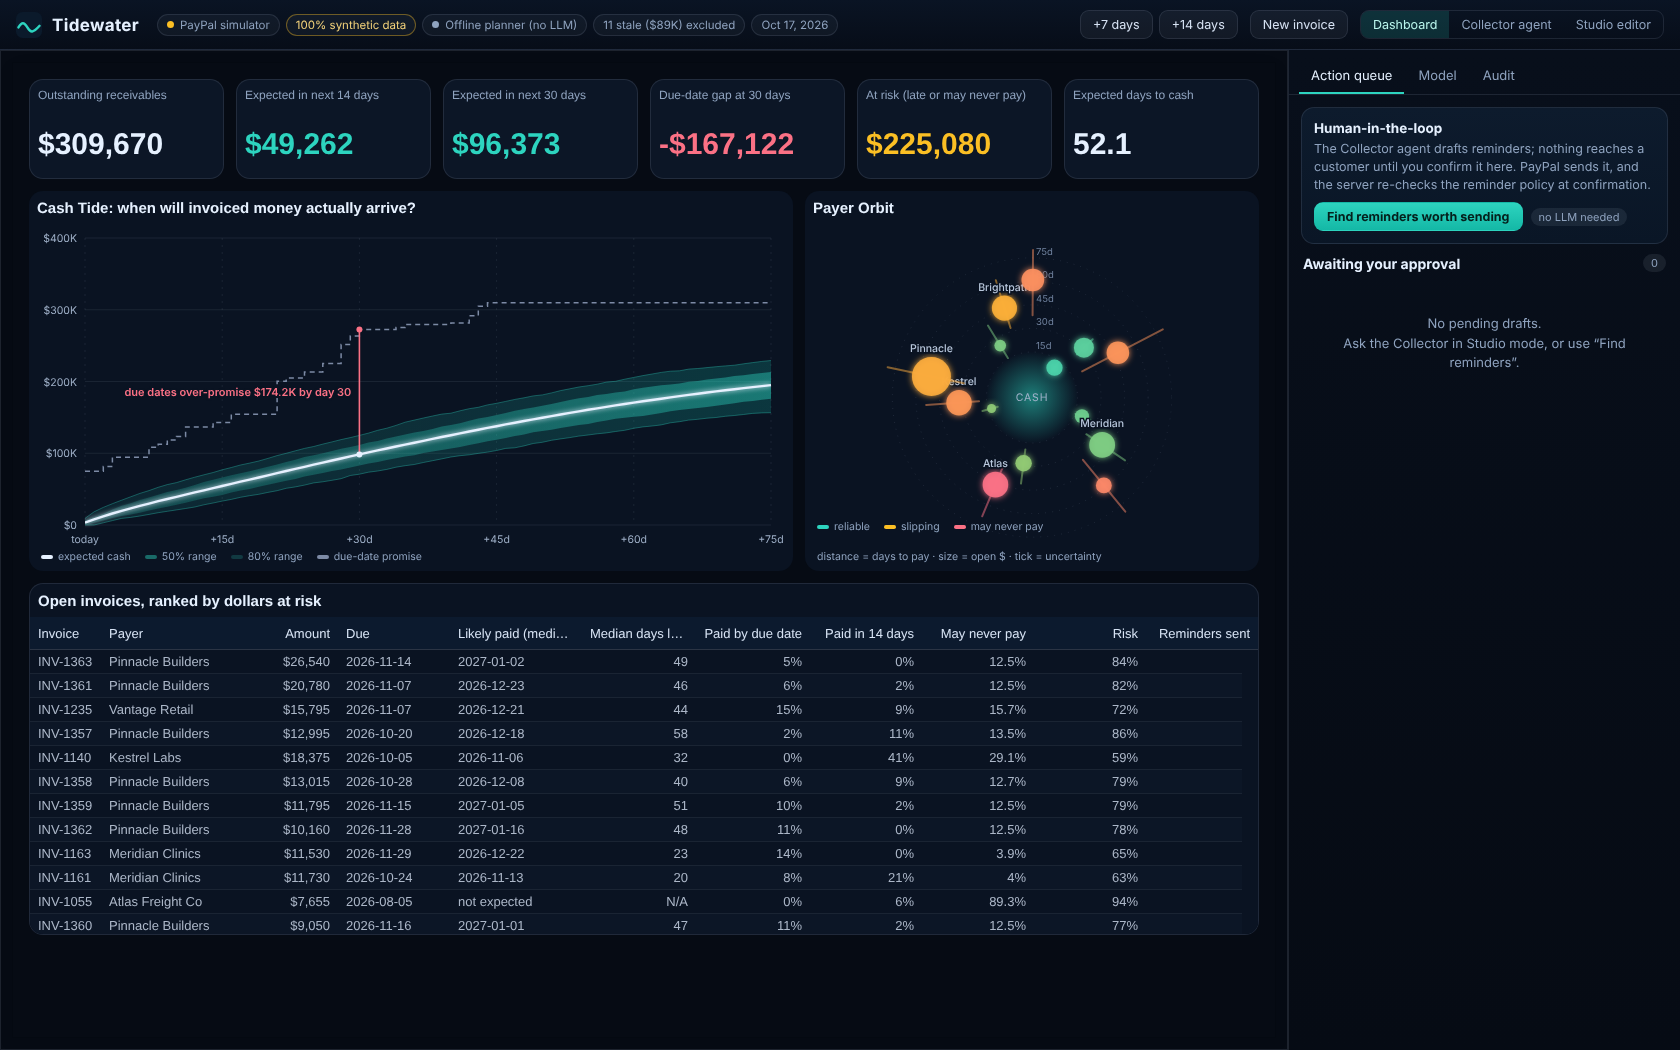
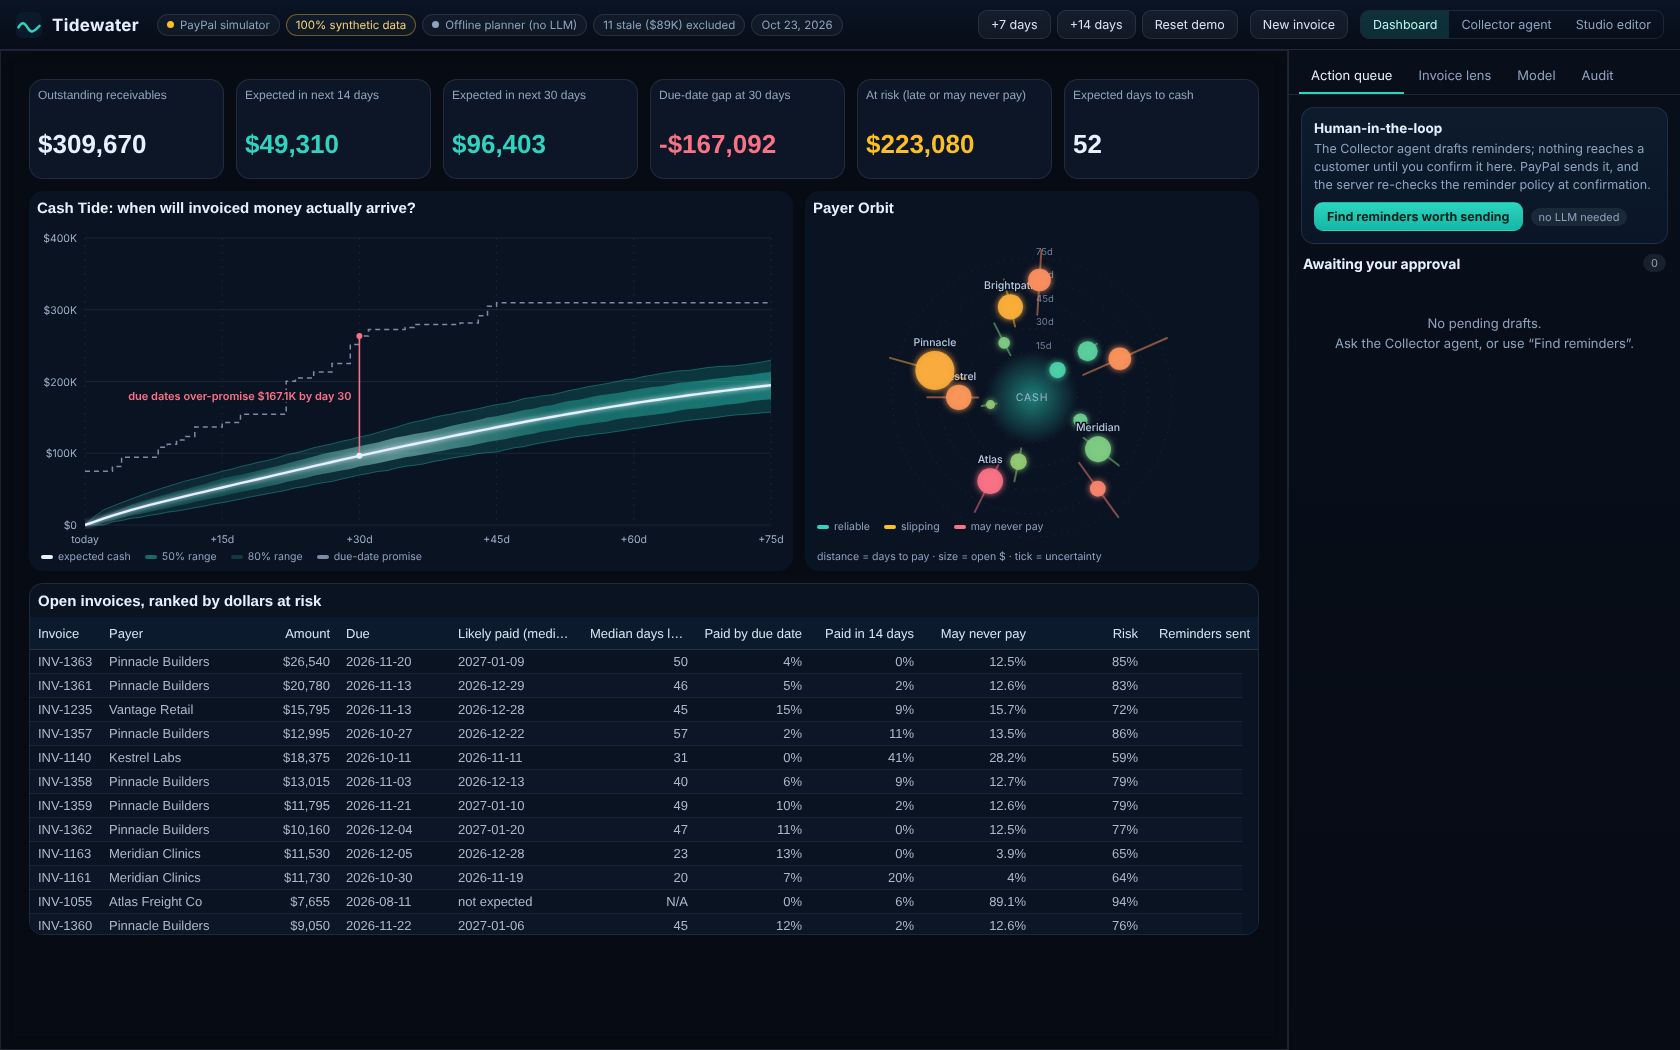
Cash Tide: day N now means N days from now, so the chart gap matches the KPI tile; refresh screenshots

diff --git a/server/forecast/portfolio.ts b/server/forecast/portfolio.ts
@@ -85,7 +85,6 @@ export function computeTide(model: FittedModel, invoices: Invoice[], now: number
   const H = opts.horizonDays ?? TIDE_HORIZON_DAYS;
   const draws = opts.draws ?? 1200;
   const open = openInvoices(invoices);
-  const day0 = dayStartUtc(now);
   const base = open.map((inv) => predictiveFor(model, inv, now));
   const scen =
     opts.scenarioIds && opts.scenarioIds.size
@@ -104,7 +103,8 @@ export function computeTide(model: FittedModel, invoices: Invoice[], now: number
     for (let j = 0; j < open.length; j++) {
       const T = base[j].sampleFromU(U1[d * open.length + j], U2[d * open.length + j]);
       if (!Number.isFinite(T)) continue;
-      const idx = Math.max(0, Math.floor((open[j].sentAt + T * DAY_MS - day0) / DAY_MS));
+      // Bucket k holds payments made by now + k days, so point k lines up with the KPI tiles.
+      const idx = Math.max(0, Math.ceil((open[j].sentAt + T * DAY_MS - now) / DAY_MS));
       if (idx <= H) mc[d * (H + 1) + idx] += open[j].amount;
     }
     for (let k = 1; k <= H; k++) mc[d * (H + 1) + k] += mc[d * (H + 1) + k - 1];
@@ -112,7 +112,7 @@ export function computeTide(model: FittedModel, invoices: Invoice[], now: number
 
   const out: TidePoint[] = [];
   for (let k = 0; k <= H; k++) {
-    const dayEnd = day0 + (k + 1) * DAY_MS;
+    const dayEnd = now + k * DAY_MS;
     let expected = 0;
     let scenario = 0;
     let naive = 0;
@@ -126,7 +126,7 @@ export function computeTide(model: FittedModel, invoices: Invoice[], now: number
     for (let d = 0; d < draws; d++) col.push(mc[d * (H + 1) + k]);
     col.sort((a, b) => a - b);
     out.push({
-      day: isoDay(day0 + k * DAY_MS),
+      day: isoDay(now + k * DAY_MS),
       dayIndex: k,
       expected,
       p10: quantile(col, 0.1),

diff --git a/tests/api.test.ts b/tests/api.test.ts
@@ -41,6 +41,9 @@ describe('Tidewater API (simulator mode)', () => {
       expect(t[i].p10).toBeLessThanOrEqual(t[i].p90 + 1e-6);
     }
     expect(snap.kpis.openCount).toBe(snap.invoices.length);
+    // The chart's day-30 point and the KPI tile describe the same moment, so the gap must agree.
+    expect(t[30].expected - t[30].naive).toBeCloseTo(snap.kpis.dueDateGap30d, 3);
+    expect(t[14].expected).toBeCloseTo(snap.kpis.expected14d, 3);
     // forecast must never include invoices unpaid for more than 120 days
     expect(snap.invoices.every((f) => (snap.now - f.sentAt) / 86_400_000 <= 120)).toBe(true);
     expect(snap.kpis.staleCount).toBeGreaterThan(0);
